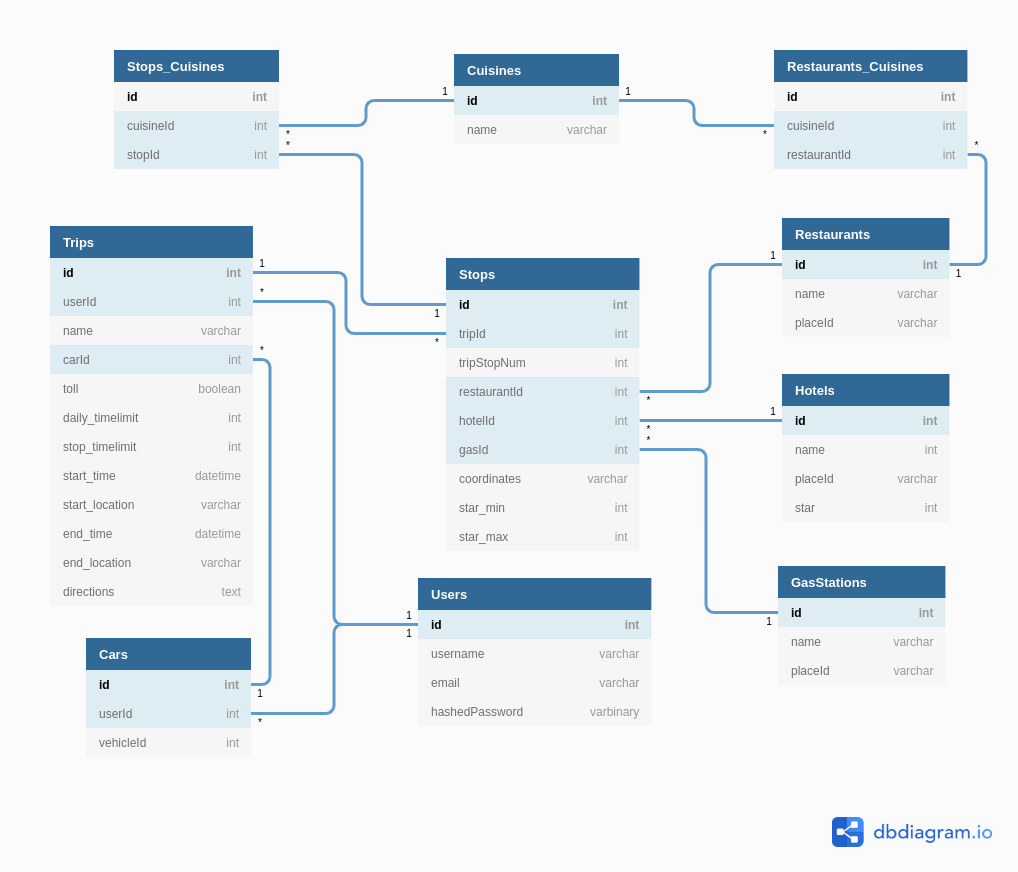
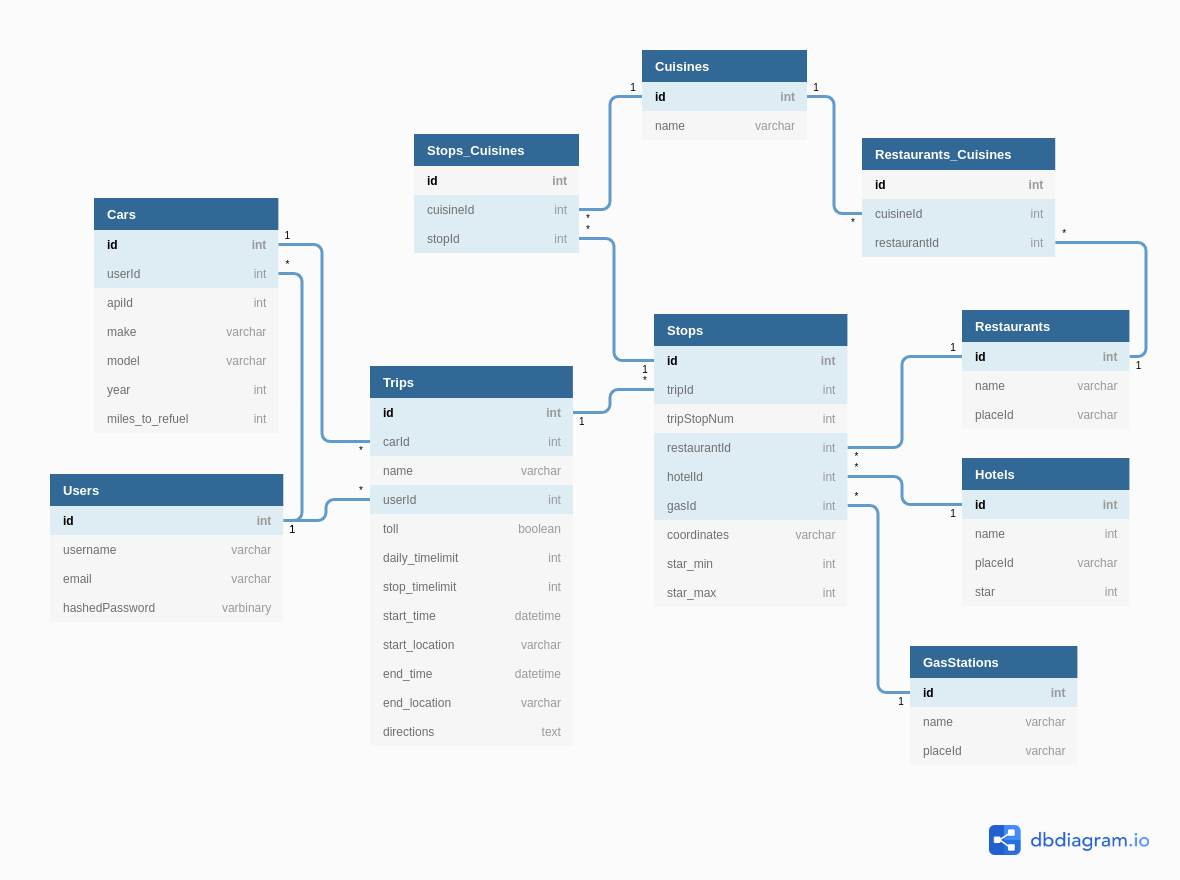
updated modify_trips

Changed region(s): [[0.0305, 0.031, 0.9745, 0.867], [0.7917, 0.9289, 0.9745, 0.9908], [0.5786, 0.805, 0.609, 0.836]]

diff --git a/app/api/trip_routes.py b/app/api/trip_routes.py
@@ -1,8 +1,10 @@
 from flask import Blueprint, jsonify, request
 from flask_login import login_required
 from app.models import Trip, User, db
-from app.utils import normalize, snake_case
+from app.utils import normalize, snake_case, get_place_coords, coords_to_str
 from sqlalchemy.exc import SQLAlchemyError
+from ..Trip import TripClass
+
 
 trip_routes = Blueprint('trips', __name__)
 
@@ -11,11 +13,13 @@ trip_routes = Blueprint('trips', __name__)
 @trip_routes.route('/users/<int:user_id>/trips', methods=['GET'])
 @login_required
 def get_trips(user_id):
+
     try:
         trips = Trip.query.filter(Trip.user_id == user_id).all()
         trip_dicts = [trip.to_dict() for trip in trips]
         trips_json = jsonify({'trips': normalize(trip_dicts)})
         return trips_json
+
     except SQLAlchemyError as e:
         error = str(e.__dict__['orig'])
         print(error)
@@ -26,10 +30,12 @@ def get_trips(user_id):
 @trip_routes.route('/trips/<int:trip_id>', methods=['GET'])
 @login_required
 def get_trip(trip_id):
+
     try:
         trip = Trip.query.filter(Trip.id == trip_id).first()
         trip_json = jsonify({'trips': normalize(trip.to_dict())})
         return trip_json
+
     except SQLAlchemyError as e:
         error = str(e.__dict__['orig'])
         print(error)
@@ -41,6 +47,21 @@ def get_trip(trip_id):
 @login_required
 def post_trip(user_id):
     data = request.json
+    origin = get_place_coords(data['startLocation'])
+    destination = get_place_coords(data['endLocation'])
+    car = Car.query.get(data['carId'])
+
+    trip_instance = TripClass(
+        startCor=origin,
+        endCor=destination,
+        travelPerDay=data['dailyTimeLimit'],
+        travelPerIncrement=data['stopTimeLimit'],
+        milesTillFuelNeeded=car['miles_to_refuel'],
+    )
+
+    trip_instance.createDirections()
+    directions = trip_instance.getDirections()
+
     trip = Trip(
         user_id=data['userId'],
         name=data['name'],
@@ -49,14 +70,20 @@ def post_trip(user_id):
         daily_time_limit=data['dailyTimeLimit'],
         stop_time_limit=data['stopTimeLimit'],
         start_time=data['startTime'],
-        start_location=data['startLocation'],
+        start_location=coords_to_str(origin),
         end_time=data['endTime'],
-        end_location=data['endLocation'])
+        end_location=coords_to_str(destination)
+        directions=directions)
+
     try:
         db.session.add(trip)
         db.session.commit()
-        trip_json = jsonify({'trips': normalize(trip.to_dict())})
+        trip_json = jsonify({
+            'payload': {'trips': normalize(trip.to_dict())},
+            'directions': normalize(trip.directions_to_dict())
+        })
         return trip_json
+
     except SQLAlchemyError as e:
         error = str(e.__dict__['orig'])
         print(error)
@@ -69,12 +96,29 @@ def post_trip(user_id):
 @login_required
 def modify_trip(trip_id):
     data = request.json
+
     try:
         trip = Trip.query.get(trip_id)
         for key, value in data.items():
             setattr(trip, key, value)
+
+        if data['startTime'] | data['endTime']:
+            trip_instance = TripClass(
+                startCor=origin,
+                endCor=destination,
+            )
+            trip_instance.createDirections()
+
+        trip_instance.getDirections()
+        trip['directions'] = trip_instance['directions']
+
         db.session.commit()
-        return {'trips': normalize(trip.to_dict())}
+        trip_json = jsonify({
+            'payload': {'trips': normalize(trip.to_dict())},
+            'directions': normalize(trip.directions_to_dict())
+        })
+        return trip_json
+
     except SQLAlchemyError as e:
         error = str(e.__dict__['orig'])
         print(error)
@@ -87,9 +131,11 @@ def modify_trip(trip_id):
 @login_required
 def delete_trip(trip_id):
     trip = Trip.query.get(trip_id)
+
     if trip:
         db.session.delete(trip)
         db.session.commit()
         return {'id': trip_id}
+
     else:
         return {'errors': [f'Trip Id: {trip_id} was not found']}, 404

diff --git a/app/utils.py b/app/utils.py
@@ -1,3 +1,11 @@
+from urllib import parse
+import requests
+import os
+
+
+api_key = os.environ.get(REACT_APP_GOOGLE_KEY)
+
+
 def camelCase(string):
     if not isinstance(string, str):
         return string
@@ -47,3 +55,25 @@ def to_dict(inst):
         key = col[i+1:]
         inst_dict[key] = inst[key]
     return inst_dict
+
+
+def get_place_coords(place):
+    formatted_place = parse.quote(place)
+    url = f'https://maps.googleapis.com/maps/api/place/findplacefromtext/json?input={formatted_place}&inputtype=textquery&fields=formatted_address,name,geometry,place_id&key={api_key}'
+    res = requests.get(url)
+    res = res.json()
+    lat = res['geometry']['location']['lat']
+    lng = res['geometry']['location']['lng']
+    return {'lat': lat, 'lng': lng}
+
+
+def coords_to_str(coords):
+    return f'{coords[0]},{coords[1]}'
+
+
+def coords_from_str(coords):
+    return coords.split(',')
+
+
+def check_previous_cuisines(tripId):
+    pass

diff --git a/app/models/trips.py b/app/models/trips.py
@@ -32,6 +32,8 @@ class Trip(db.Model):
             'start_location': self.start_location,
             'end_time': self.end_time,
             'end_location': self.end_location,
-            'directions': self.directions,
             'stops': [stop.id for stop in self.stops]
         }
+
+    def directions_to_dict(self):
+        return {'id': self.id, directions}

diff --git a/app/api/car_routes.py b/app/api/car_routes.py
@@ -48,7 +48,7 @@ def post_car(user_id):
         make=data['make'],
         model=data['model'],
         year=data['year'],
-        mpg=data['mpg'])
+        miles_to_refuel=data['mpg'] * data['tankSize'])
     try:
         db.session.add(car)
         db.session.commit()

diff --git a/app/Trip/__init__.py b/app/Trip/__init__.py
@@ -9,7 +9,7 @@ import json
 #  To get the distance of a polyline, pass the hashed value to the "getDistance" function
 
 
-class Trip:
+class TripClass:
 
 
     ##todo: add method that converts to things that can easily save

diff --git a/FrontBackWorkflow.md b/FrontBackWorkflow.md
@@ -1,41 +1,79 @@
 # Front End / Back End Workflow
 
+- All endpoints begin with `/api`, so it's best to add that to the end of `REACT_APP_BASE_URL`
+- PUT requests are structured so that all you need to send is what is being modified
+
+## General Workflow
+
+1. FE - Post User's Car details
+2. FE - Post Initial Trip details
+
+    - POST: /users/{userId}/trip
+
+3. BE - Returns a Trip Object and Directions
+4. FE - Prompts user for Stop Details
+
+    - POST: /trips/{tripId}/stops
+
+5. BE - 
+
+## Creating a Car
+
+- Necessary info for signup
+
+  - userId
+  - apiId
+  - make
+  - model
+  - year
+  - mpg
+  - tankSize
+
+- Car dispatch actions:
+
+    ```js
+    // Get all Cars associated with a User
+    getCars(userId)
+
+    // Get a specific Car
+    getCar(carId)
+
+    // Create a new Car for a User
+    postCar(car, userId)
+
+    // Delete a Car
+    deleteCar(carId)
+    ```
+
 ## Creating a Trip
 
-1. Frontend API Actions:
+- Necessary info for Trip endpoint
 
-    - Necessary info for Trip endpoint
+  - userId
+  - name
+  - carId
+  - toll
+  - dailyTimeLimit
+  - stopTimeLimit
+  - startLocation
+  - endLocation
+  - startTime || endTime
 
-    - All endpoints begin with `/api`, so it's best to add that to the end of `REACT_APP_BASE_URL`
-
-    ```js
-    const returningAction = payload => ({ type: ACTION_NAME, payload })
-
-    // add id to parameters if the endpoint url necessitates
-    const action = payload => ({
-        type: API,
-        // import API from constants/constants.js
-        method: 'GET/POST/PUT/DELETE',
-        // add ${id} if the endpoint requires one
-        endpoint: `/the/correct/endpoint`,
-        // The action to take place when the fetch data is returned
-        altAction: (data) => returningAction(data)
-    })
-    ```
-
-    - Example:
+- Trip dispatch actions:
 
     ```js
-    const setTrip = trip => ({ type: SET_TRIP, trip })
+    // Get all Trips associated with a User
+    getTrips(userId)
 
-    export const postTrip = (trip, userId) => ({
-        type: API,
-        payload: {
-        method: 'POST',
-        endpoint: `/users/${userId}/trips`,
-        body: trip,
-        action: trip => setTrip(trip),
-        },
-    });
+    // Get a specific Trip
+    getTrip(tripId)
+
+    // Create a new Trip for a User
+    postTrip(trip, userId)
+
+    // Modify a Trip
+    putTrip(trip, tripId)
+
+    // Delete a Trip
+    deleteTrip(tripId)
     ```
-
